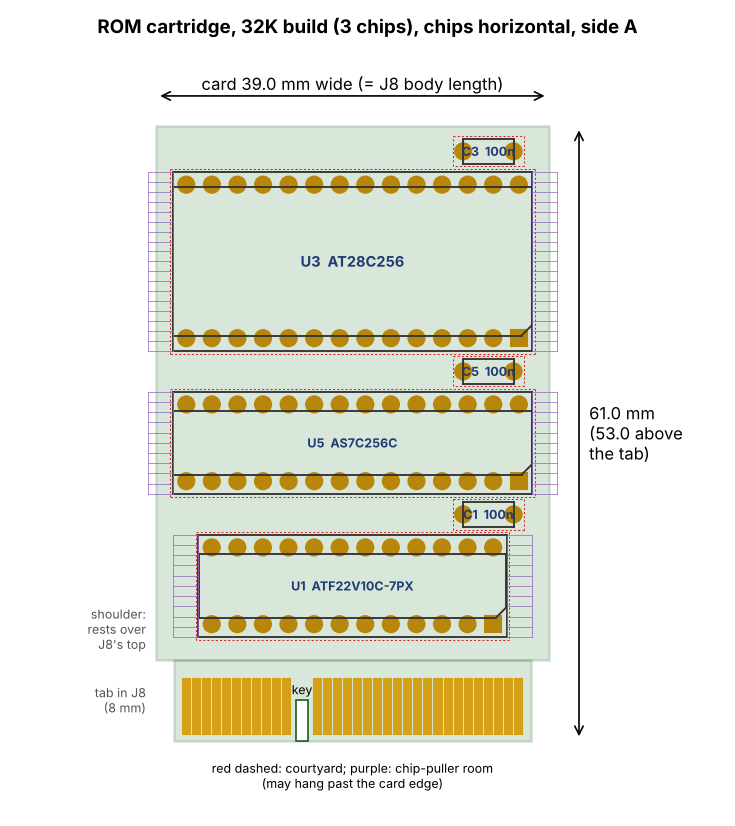
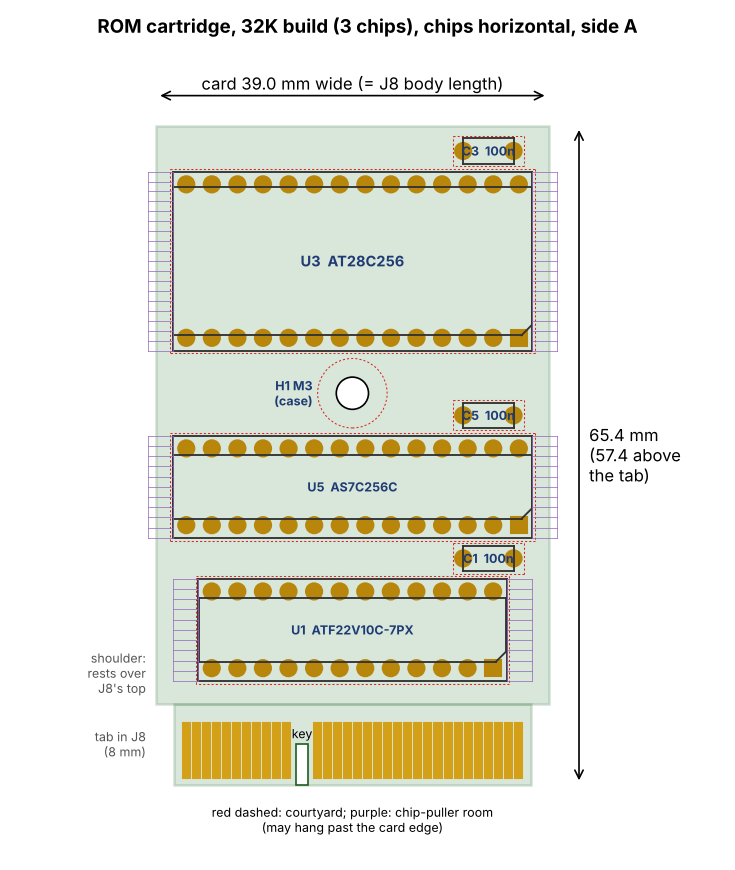
Cartridge placement: M3 case mounting hole on the centre line
H1 (MountingHole_3.2mm_M3) sits in a 7.9 mm row gap under the lower ROM
so the card screws to its shell.  64K card 39 x 101.5 mm, 32K 39 x 65.4 mm.

Claude-Session: https://claude.ai/code/session_017zNY7d3qzYYkfq8eNVBGgo

diff --git a/src/scripts/gen_cart_placement.py b/src/scripts/gen_cart_placement.py
@@ -11,7 +11,9 @@ Draws docs/cart_placement_5chip.png and docs/cart_placement_3chip.png from
 the real footprints in kicad/lib/placard.pretty (socket outline, courtyard,
 chip-puller boxes, pads) and KiCad's disc capacitor.  No board file is
 written: this only fixes the card outline that the shell keepout on J8
-(gen_kicad_connectors.py CART_W) is sized from.
+(gen_kicad_connectors.py CART_W) is sized from.  An M3 hole (H1) in the
+row gap under the lower ROM, on the card's centre line, screws the card
+to its shell.
 
 Card coordinates: x along the edge fingers (x = 0 at the card's left edge),
 y up from the bottom of the finger tab.  The card is centred on the middle
@@ -44,6 +46,9 @@ TAB_H = 8.0                  # finger tab below the card's shoulder (inside the 
 PART_Y0 = TAB_H + 2.0        # lowest part edge: 2 mm above the shoulder, clear of the slot top
 ROW_GAP = 3.5                # courtyard to courtyard between rows: room for the row's 100n disc
 TOP_MARGIN = 1.0             # top courtyard to the card's top edge
+HOLE_D = 3.2                 # case mounting hole H1 (KiCad MountingHole_3.2mm_M3): screw through the card into the shell
+HOLE_CRTYD = 3.45            # its courtyard radius: room for the screw head / shell boss
+HOLE_GAP = 2 * HOLE_CRTYD + 1.0   # row gap that holds the hole (0.5 mm to each row's courtyard)
 
 # middle of J8's contacts in card x: the card is centred on it
 MID = CARD_W / 2
@@ -130,24 +135,32 @@ def sockets(build):
 def layout(build):
     cap = os.path.join(STOCK, "Capacitor_THT.pretty", "C_Disc_D5.0mm_W2.5mm_P5.00mm.kicad_mod")
     parts = []
+    hole = None
+    rows = sockets(build)
     y = PART_Y0
-    for ref, value, path, cref in sockets(build):
+    for i, (ref, value, path, cref) in enumerate(rows):
         # pin 1 at the bottom left: footprint +y (down the pin row) turned to card +x
         p = Part(ref, value, path, 90)
         p.place(MID, y)
         parts.append(p)
-        y = p.box("F.CrtYd")[3] + ROW_GAP
+        y0 = p.box("F.CrtYd")[3]
+        # the case mounting hole goes in the gap under the lower ROM, near the card's middle
+        if i + 1 < len(rows) and rows[i + 1][1] == "AT28C256" and hole is None:
+            hole = (MID, y0 + HOLE_GAP / 2)
+            y = y0 + HOLE_GAP
+        else:
+            y = y0 + ROW_GAP
         c = Part(cref, "100n", cap, 0)
-        c.place(CARD_W - 6.0, y - ROW_GAP / 2 - 1.5)
+        c.place(CARD_W - 6.0, y0 + 0.25)
         parts.append(c)
     top = y - ROW_GAP + TOP_MARGIN
     # the last decap sits above the top row: the card ends above it
     top = max(top, parts[-1].box("F.CrtYd")[3] + TOP_MARGIN)
-    return parts, top
+    return parts, top, hole
 
 
 def draw(build, out):
-    parts, top = layout(build)
+    parts, top, hole = layout(build)
     fig, ax = plt.subplots(figsize=(5.0, 1.5 + top / 11.0), dpi=150)
     # card: body plus the finger tab
     tab0, tab1 = FINGER_X0 - 1.25, FINGER_X0 + 33 + 1.25
@@ -161,6 +174,11 @@ def draw(build, out):
     ax.text(kx, 4.6, "key", ha="center", fontsize=6)
     for p in parts:
         p.draw(ax)
+    hx, hy = hole
+    ax.add_patch(Circle((hx, hy), HOLE_D / 2, fc="white", ec="black", lw=0.8))
+    ax.add_patch(Circle((hx, hy), HOLE_CRTYD, fc="none", ec="#d62728", lw=0.5, ls=(0, (2, 2))))
+    ax.text(hx - HOLE_CRTYD - 0.5, hy, "H1 M3\n(case)", ha="right", va="center", fontsize=6, weight="bold",
+            color="#1f3b73")
     # dimensions
     ax.annotate("", (0, top + 3), (CARD_W, top + 3), arrowprops=dict(arrowstyle="<->", lw=0.8))
     ax.text(CARD_W / 2, top + 3.6, "card %.1f mm wide (= J8 body length)" % CARD_W, ha="center", fontsize=8)
@@ -180,7 +198,8 @@ def draw(build, out):
     fig.savefig(out, bbox_inches="tight")
     plt.close(fig)
     widest = max(p.box("F.CrtYd")[2] - p.box("F.CrtYd")[0] for p in parts)
-    print("wrote %s: card %.1f x %.1f mm, widest courtyard %.2f mm" % (out, CARD_W, top, widest))
+    print("wrote %s: card %.1f x %.1f mm, widest courtyard %.2f mm, hole at (%.1f, %.1f)"
+          % (out, CARD_W, top, widest, hx, hy))
 
 
 def main():

diff --git a/docs/EXPANSION.md b/docs/EXPANSION.md
@@ -342,8 +342,11 @@ shell's skirt has to go round the 39 mm slot anyway.  The chip-puller
 room at each socket end may hang past the card edge (the shell comes off
 to change a chip).  The card is centred on the middle of J8's contacts.
 `src/scripts/gen_cart_placement.py` draws the placement from the real
-footprints: the 64K build (5 chips) is 39 x 97 mm and the 32K build
-(U1, U3, U5) 39 x 61 mm, finger tab included.  An expansion card is 72 mm
+footprints: the 64K build (5 chips) is 39 x 101.5 mm and the 32K build
+(U1, U3, U5) 39 x 65.4 mm, finger tab included.  An M3 hole (H1) on the
+card's centre line, in the row gap under the lower ROM, screws the card
+to its shell; the gap is 7.9 mm there (the hole's 6.9 mm courtyard, room
+for the screw head or the shell's boss).  An expansion card is 72 mm
 wide (the slot body, 71.1 mm, plus 0.5 mm a side).  The shell adds 0.5 mm
 air and a 2 mm wall each end, and the keepout 1 mm more.
 
